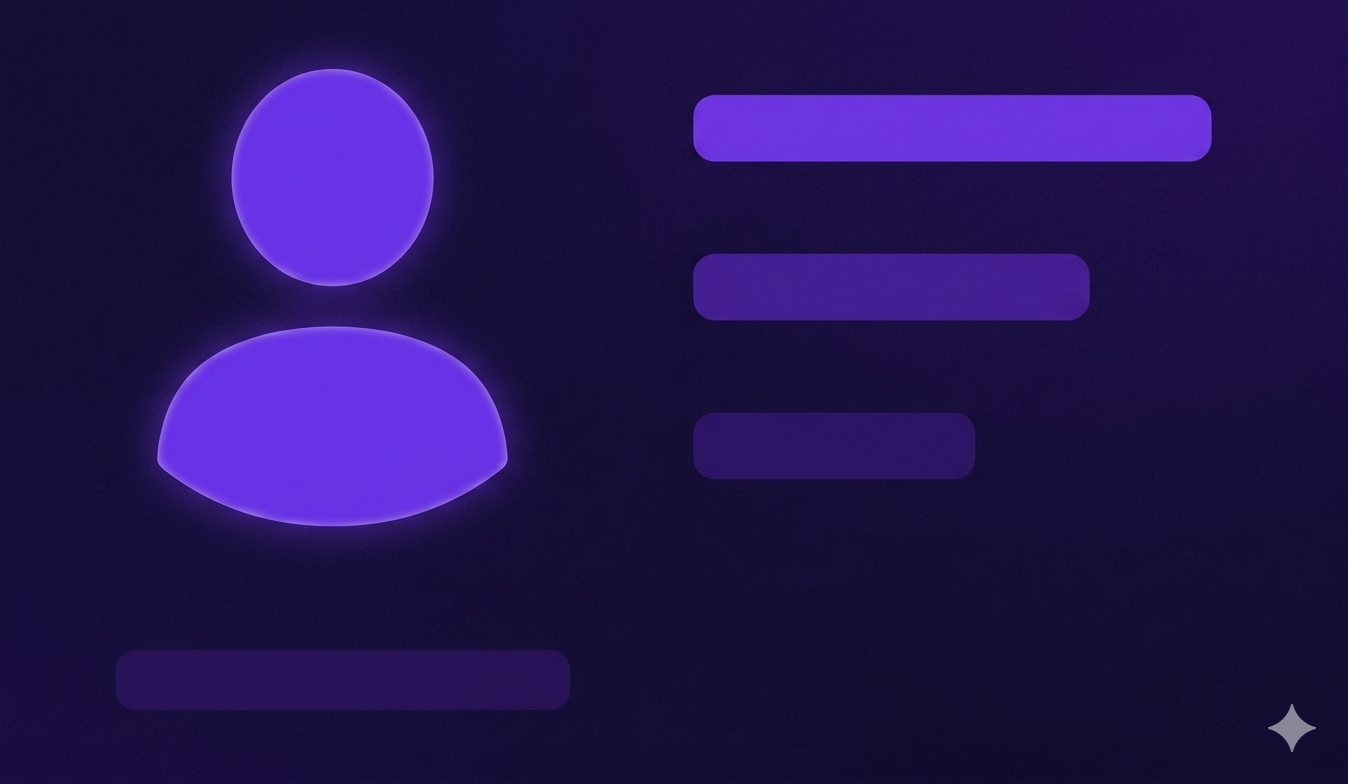
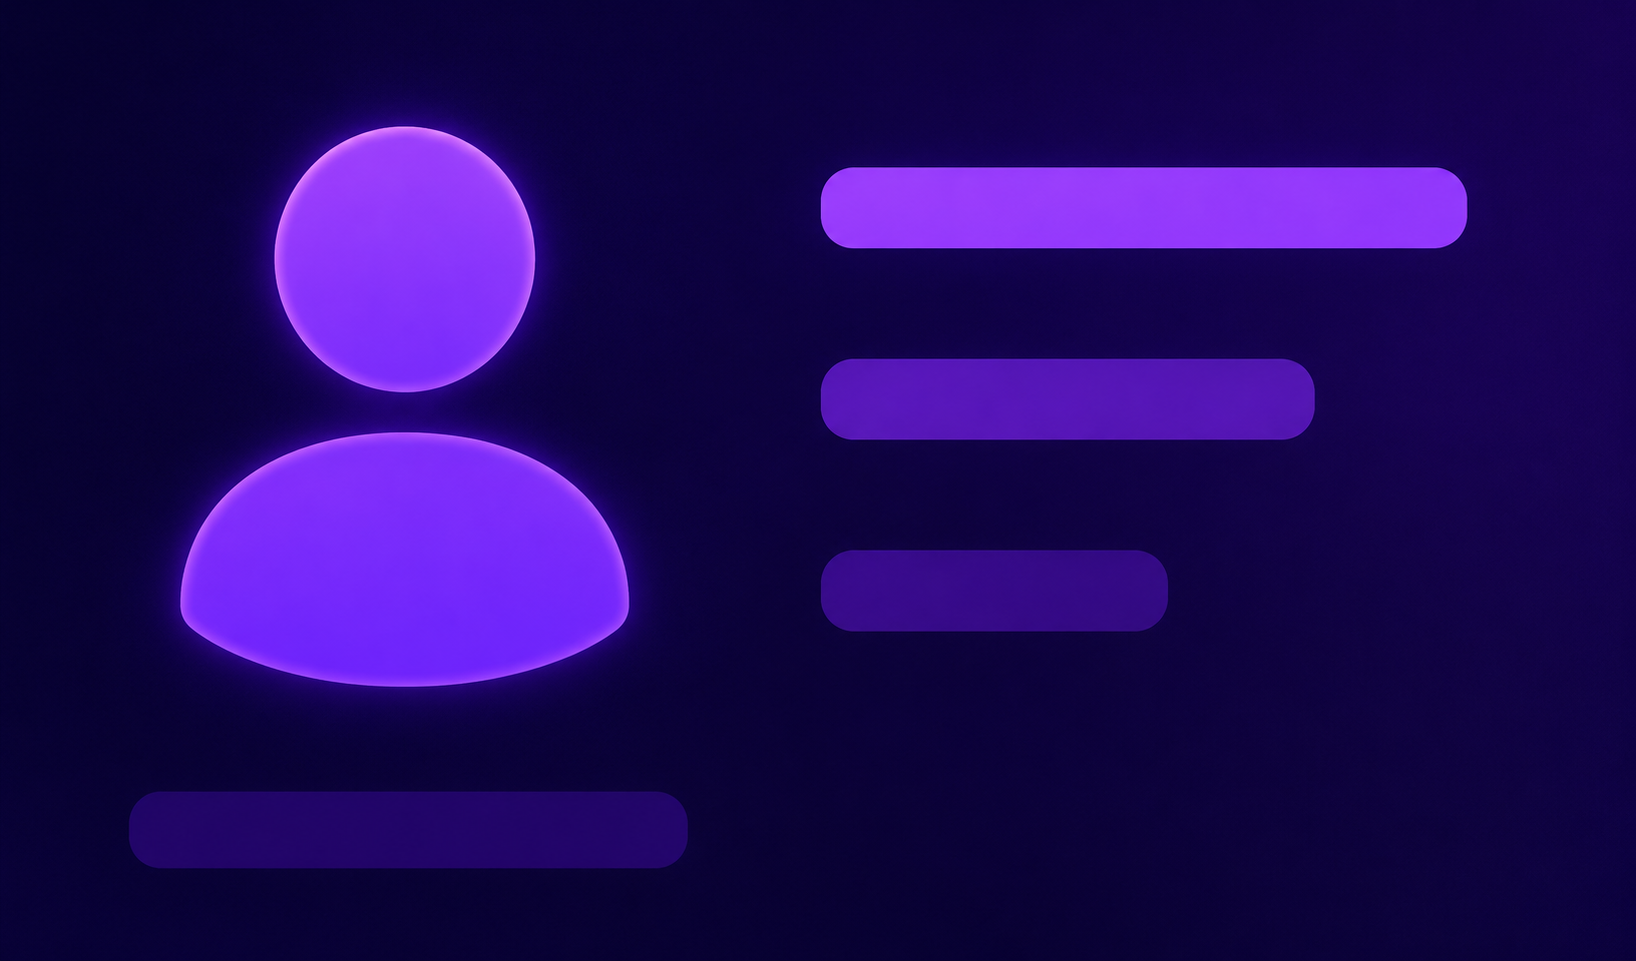
feat: add FooterSection

diff --git a/app/about/FooterSection.tsx b/app/about/FooterSection.tsx
@@ -1,0 +1,46 @@
+'use client';
+
+import Link from 'next/link';
+
+export default function FooterSection() {
+return (
+    <footer className="border-t border-white/5 bg-[#06060f]">
+        <div className="max-w-7xl mx-auto px-6 py-12">
+            <div className="grid grid-cols-1 md:grid-cols-5 gap-8">
+                <div className="md:col-span-2">
+                    <Link href="/" className="flex items-center gap-2 font-bold text-xl mb-4">
+                        <span className="grid size-10 place-items-center">
+                            <img src="/logo-event-tracker.png" alt="" />
+                        </span>
+                        <span><span className="text-white">Event</span><span className="text-violet-400">Sync</span></span>
+                    </Link>
+                    <p className="text-white/40 text-sm leading-relaxed max-w-xs">
+                        La plateforme qui connecte les événements et les participants en temps réel.
+                    </p>
+                </div>
+
+                {[
+                    { titre: "Navigation", liens: ["Accueil", "Événements", "Intervenants", "À propos"] },
+                    { titre: "Ressources", liens: ["Programme", "FAQ", "Contact"] },
+                    { titre: "Légal", liens: ["Mentions légales", "Confidentialité", "Conditions d'utilisation"] },
+                ].map(({ titre, liens }) => (
+                    <div key={titre}>
+                        <h4 className="text-white/60 text-xs uppercase tracking-widest mb-4">{titre}</h4>
+                        <ul className="space-y-2.5">
+                            {liens.map((l) => (
+                                <li key={l}>
+                                    <Link href="#" className="text-white/40 text-sm hover:text-white transition-colors">{l}</Link>
+                                </li>
+                            ))}
+                        </ul>
+                    </div>
+                ))}
+            </div>
+
+            <div className="mt-12 pt-6 border-t border-white/5 flex items-center justify-between">
+                <p className="text-white/25 text-sm">© 2026 EventSync. Tous droits réservés.</p>
+            </div>
+        </div>
+    </footer>
+);
+}

diff --git a/app/about/page.tsx b/app/about/page.tsx
@@ -2,6 +2,7 @@ import HeroSection from './HeroSection';
 import MissionSection from './MissionSection';
 import FeaturesSection from './FeaturesSection';
 import StatsSection from './StatsSection';
+import FooterSection from "./FooterSection";
 
 export default function AboutPage() {
   return (
@@ -13,6 +14,8 @@ export default function AboutPage() {
         <FeaturesSection />
 
         <StatsSection />
+
+        <FooterSection />
       </div>
   );
 }
